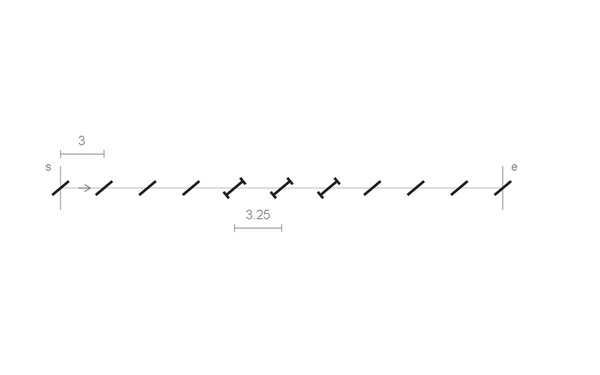
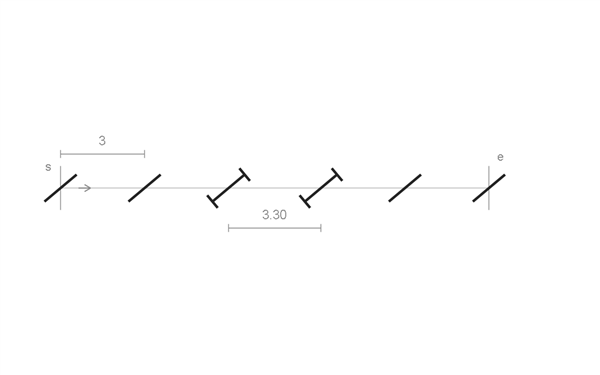
Enlarge spacing comparisons using six slits

diff --git a/docs/PITCH_skeleton.md b/docs/PITCH_skeleton.md
@@ -32,22 +32,22 @@ Research note: Anthony to find stitching examples from:
 
 - Seam lengths and required features rarely fall on exact multiples of the tool's pitch
 - Manual arrays leave endpoint, landmark and junction adjustments to the maker
-- Example: $30.5\,\mathrm{mm}$ guide, $3\,\mathrm{mm}$ pitch, fixed endpoints
+- Example: six slits on a $15.3\,\mathrm{mm}$ guide, $3\,\mathrm{mm}$ pitch, fixed endpoints
 
 ![Nominal spacing leaves a remainder at the fixed end](../examples/illustrated/assets/pitch-problem.gif)
 
 ## Naive solution
 
-- Distribute eleven openings evenly: ten $3.05\,\mathrm{mm}$ gaps
+- Distribute six openings evenly: five $3.06\,\mathrm{mm}$ gaps
 - Every gap departs from nominal tool spacing
 
 ![Naive solution: redistribute every gap](../examples/illustrated/assets/pitch-spread.gif)
 
 ## Good enough solution
 
-- Keep eight nominal gaps; absorb the remainder in two $3.25\,\mathrm{mm}$ gaps at the end
+- Keep four nominal gaps; absorb the remainder in one $3.3\,\mathrm{mm}$ gap at the end
 
-![Good enough solution: adjust two gaps near the end](../examples/illustrated/assets/pitch-end.gif)
+![Good enough solution: adjust the last gap](../examples/illustrated/assets/pitch-end.gif)
 
 ## Autostitch solution
 

diff --git a/examples/illustrated/README.md b/examples/illustrated/README.md
@@ -16,9 +16,9 @@ Distribute the openings evenly between the endpoints. It fits, but every gap dep
 
 ## Good enough solution
 
-Keep most gaps nominal and adjust the last two.
+Keep four gaps nominal and adjust the last one.
 
-![Adjust the last two gaps](assets/pitch-end.gif)
+![Adjust the last gap](assets/pitch-end.gif)
 
 ## Autostitch solution
 
@@ -26,7 +26,7 @@ Reserve the endpoints and plan the fewest adjusted gaps centrally, then fill the
 
 ![Plan the central adjustment before filling the line](assets/pitch-centre.gif)
 
-All four use `S02`: the same $30.5\,\mathrm{mm}$ guide, $3\,\mathrm{mm}$ pitch, $1.5\,\mathrm{mm}$ slits and $40^\circ$ lean. The naive solution has ten $3.05\,\mathrm{mm}$ gaps. The other two have eight nominal gaps and two $3.25\,\mathrm{mm}$ gaps. Dashed slits are proposals; `I` marks identify adjusted spacing.
+All four use `ILL-S02`: six slits on the same $15.3\,\mathrm{mm}$ guide, $3\,\mathrm{mm}$ pitch, $1.5\,\mathrm{mm}$ slits and $40^\circ$ lean. The naive solution has five $3.06\,\mathrm{mm}$ gaps. The other two have four nominal gaps and one $3.3\,\mathrm{mm}$ gap, at the end or in the centre. Dashed slits are proposals; `I` marks identify adjusted spacing.
 
 ## Axioms in geometry
 
